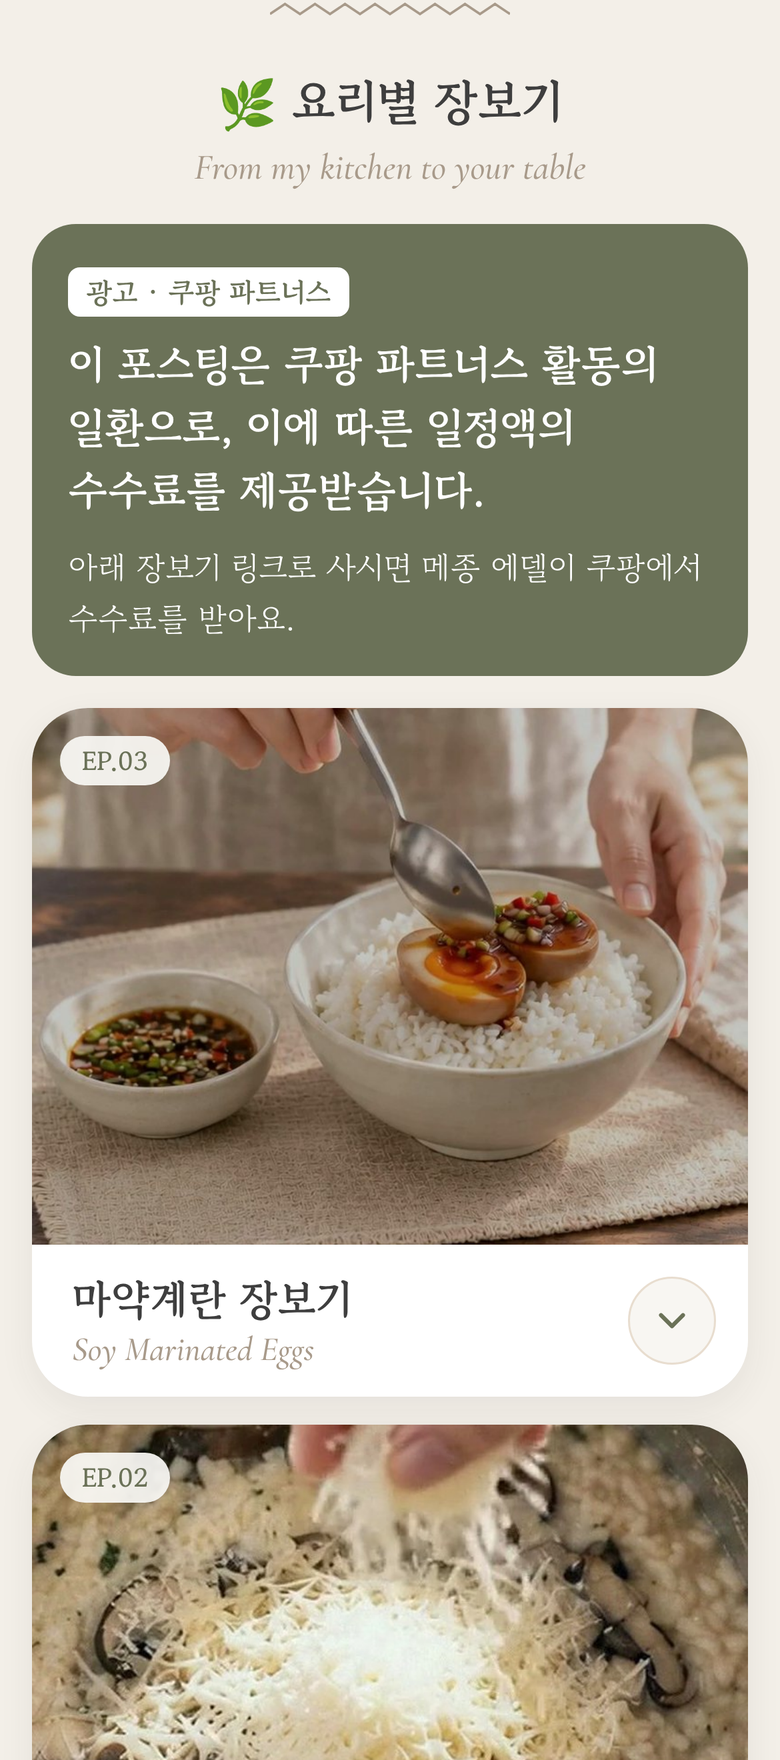
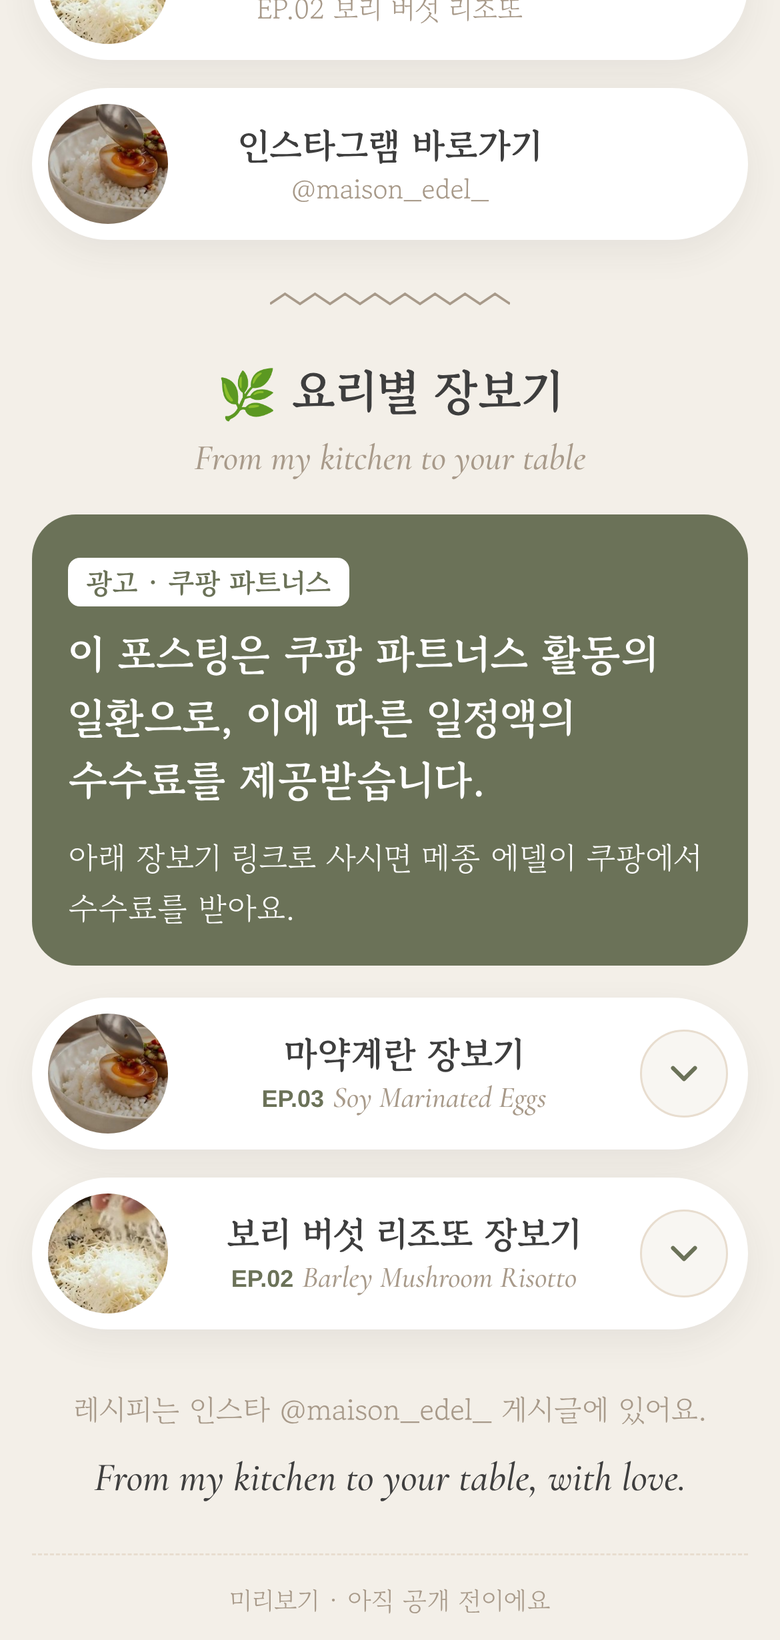
장보기 페이지 4판: 요리 블록을 알약 버튼으로, 일정 칸 빼기, 공개 파일에서 내부 주소 빼기
Claude-Session: https://claude.ai/code/session_01Ethqw5r7mmktrKzGmpSNVy

diff --git a/company/초안/메종에델-장보기/index.html b/company/초안/메종에델-장보기/index.html
@@ -10,7 +10,7 @@
 <link rel="preconnect" href="https://fonts.gstatic.com" crossorigin>
 <link href="https://fonts.googleapis.com/css2?family=Gowun+Batang:wght@400;700&family=Cormorant+Garamond:ital,wght@1,500;1,600&display=swap" rel="stylesheet">
 <style>
-  /* 메종에델 확정 색 (노션 작업실 3번 비주얼 규칙) + 부드러운 바탕 두 단계 */
+  /* 메종에델 확정 색 + 부드러운 바탕 두 단계 */
   :root {
     --ivory: #F8F6F2;
     --beige: #E8DDCF;
@@ -74,23 +74,6 @@
   .pill .tx { flex: 1; text-align: center; font-size: 18px; font-weight: 700; padding-right: 60px; line-height: 1.35; }
   .pill .tx small { display: block; font-size: 14px; font-weight: 400; color: var(--taupe); }
 
-  /* 3. 일정 칸: 꼬리표 + 날짜·제목이 세로줄로 이어짐 */
-  .sched { padding: 20px 18px 18px; }
-  .sched h2 { font-size: 17px; margin: 0 0 12px; color: var(--olive); }
-  .row { display: grid; grid-template-columns: 82px 1fr; column-gap: 14px; }
-  .row .tag { align-self: start; margin-top: 4px; justify-self: start;
-              font-family: Arial, sans-serif; font-size: 14px; font-weight: 700; color: var(--olive);
-              background: var(--olive-soft); padding: 4px 16px 4px 12px;
-              clip-path: polygon(0 0, 84% 0, 100% 50%, 84% 100%, 0 100%); border-radius: 6px 0 0 6px; }
-  .row .tag.now { background: var(--olive); color: var(--white); }
-  .row .line { position: relative; padding: 0 0 16px 18px; border-left: 1.5px solid var(--beige); }
-  .row:last-child .line { padding-bottom: 2px; }
-  .row .line::before { content: ""; position: absolute; left: -5px; top: 11px; width: 8px; height: 8px; border-radius: 50%; background: var(--taupe); }
-  .row .tag.now + .line::before { background: var(--olive); }
-  .row .when { font-size: 15px; color: var(--taupe); margin: 0; }
-  .row .what { font-size: 18px; font-weight: 700; margin: 0; line-height: 1.4; }
-  .row.empty .what { font-weight: 400; color: var(--taupe); font-size: 16px; }
-
   .wave { display: block; margin: 26px auto 18px; width: 120px; height: 12px; color: var(--taupe); }
 
   /* 4. 요리별 장보기 */
@@ -104,18 +87,19 @@
   .notice .easy { margin: 10px 0 0; font-size: 16px; }
 
   /* 사진이 큰 카드: 사진 위, 글 아래 */
-  /* 펼치기 카드: 처음엔 사진 + 제목만, 누르면 재료 버튼이 아래로 펼쳐짐 */
-  .dish { overflow: hidden; }
-  .dish summary { list-style: none; cursor: pointer; display: block; -webkit-tap-highlight-color: transparent; }
+  /* 요리 블록: 위 버튼과 같은 알약 모양 (왼쪽 동그란 작은 사진 + 가운데 요리 이름 + 오른쪽 ⌄), 누르면 아래로 재료 버튼이 펼쳐짐 */
+  .dish { overflow: hidden; border-radius: 38px; }
+  .dish[open] { border-radius: 28px; }
+  .dish summary { list-style: none; cursor: pointer; display: flex; align-items: center; gap: 10px;
+                  min-height: 76px; padding: 8px 10px 8px 8px; -webkit-tap-highlight-color: transparent; }
   .dish summary::-webkit-details-marker { display: none; }
-  .dish .photo { position: relative; aspect-ratio: 4 / 3; background: var(--beige); }
-  .dish .photo img { width: 100%; height: 100%; object-fit: cover; display: block; }
-  .dish .ep { position: absolute; top: 14px; left: 14px; background: rgba(248,246,242,.94); color: var(--olive);
-              font-size: 13px; font-weight: 700; border-radius: 999px; padding: 2px 11px; }
-  .dish .title { display: flex; align-items: center; gap: 12px; min-height: 76px; padding: 12px 16px 12px 20px; }
-  .dish .tt { flex: 1; }
-  .dish .tt b { display: block; font-size: 21px; line-height: 1.35; }
-  .dish .sub { display: block; color: var(--taupe); font-size: 17px; line-height: 1.3; }
+  .dish .thumb { flex: none; width: 60px; height: 60px; border-radius: 50%; overflow: hidden; background: var(--ivory); }
+  .dish .thumb img { width: 100%; height: 100%; object-fit: cover; display: block; }
+  .dish .tt { flex: 1; text-align: center; line-height: 1.3; }
+  .dish .tt b { display: block; font-size: 18px; }
+  .dish .sub { display: block; font-size: 14px; color: var(--taupe); }
+  .dish .sub .ep { font-family: Arial, sans-serif; font-size: 12px; font-weight: 700; color: var(--olive); }
+  .dish .sub .en { font-size: 15px; }
   .dish .chev { flex: none; width: 44px; height: 44px; border-radius: 50%; background: var(--ivory); border: 1px solid var(--beige);
                 display: flex; align-items: center; justify-content: center; color: var(--olive); transition: transform .25s ease; }
   .dish .chev svg { width: 22px; height: 22px; }
@@ -174,24 +158,11 @@
       <span class="thumb"><img src="사진/작은-마약계란.jpg" alt=""></span>
       <span class="tx">인스타그램 바로가기<small>@maison_edel_</small></span>
     </a>
-
-    <!-- 3. 공구·새 편 일정 -->
-    <section class="card sched" aria-label="공구와 새 편 일정">
-      <h2>공구 · 새 편 일정</h2>
-      <div class="row" data-date="2026-11-04T21:00:00+09:00">
-        <span class="tag">D-2</span>
-        <div class="line"><p class="when">11.4(수) 밤 9시</p><p class="what">새 편 · 마약계란</p></div>
-      </div>
-      <div class="row empty">
-        <span class="tag">곧</span>
-        <div class="line"><p class="when">공동구매</p><p class="what">준비하고 있어요</p></div>
-      </div>
-    </section>
   </div>
 
   <svg class="wave" viewBox="0 0 120 12" aria-hidden="true"><path d="M0 6 L7.5 1 L15 6 L22.5 1 L30 6 L37.5 1 L45 6 L52.5 1 L60 6 L67.5 1 L75 6 L82.5 1 L90 6 L97.5 1 L105 6 L112.5 1 L120 6" fill="none" stroke="currentColor" stroke-width="1.2"/></svg>
 
-  <!-- 4. 요리별 장보기 (쿠팡 파트너스 링크가 있는 칸) -->
+  <!-- 3. 요리별 장보기 (쿠팡 파트너스 링크가 있는 칸) -->
   <section aria-labelledby="shop-title">
     <div class="shop-head">
       <h2 id="shop-title">🌿 요리별 장보기</h2>
@@ -205,14 +176,12 @@
     </div>
 
     <div class="stack">
-      <!-- 블록 1: 마약계란 · 재료 근거: v3/마약계란-캡션.md, 노션 레시피함 마약달걀 · 사진: EP.03 인스타용 영상 15.6초 -->
+      <!-- 블록 1: 마약계란 (EP.03) -->
       <details class="card dish">
         <summary>
-          <div class="photo"><img src="사진/ep03-마약계란.jpg" alt="흰쌀밥 위 마약계란에 양념을 끼얹는 손" loading="lazy"><span class="ep">EP.03</span></div>
-          <div class="title">
-            <span class="tt"><b>마약계란 장보기</b><span class="sub en">Soy Marinated Eggs</span></span>
-            <span class="chev" aria-hidden="true"><svg viewBox="0 0 24 24" fill="none" stroke="currentColor" stroke-width="2.2" stroke-linecap="round" stroke-linejoin="round"><path d="M6 9l6 6 6-6"/></svg></span>
-          </div>
+          <span class="thumb"><img src="사진/작은-마약계란.jpg" alt="마약계란"></span>
+          <span class="tt"><b>마약계란 장보기</b><span class="sub"><span class="ep">EP.03</span> <span class="en">Soy Marinated Eggs</span></span></span>
+          <span class="chev" aria-hidden="true"><svg viewBox="0 0 24 24" fill="none" stroke="currentColor" stroke-width="2.2" stroke-linecap="round" stroke-linejoin="round"><path d="M6 9l6 6 6-6"/></svg></span>
         </summary>
         <div class="body">
           <p class="fee">쿠팡 파트너스 링크 · 수수료를 받아요</p>
@@ -221,14 +190,12 @@
         </div>
       </details>
 
-      <!-- 블록 2: 보리 버섯 리조또 · 재료 근거: 노션 EP.02 장면 목록 2번 + EP.02 화면 자막 · 사진: EP.02 썸네일(EP02-리조또.jpg) 가운데 -->
+      <!-- 블록 2: 보리 버섯 리조또 (EP.02) -->
       <details class="card dish">
         <summary>
-          <div class="photo"><img src="사진/ep02-보리버섯리조또.jpg" alt="보리 버섯 리조또 위에 파마산 치즈를 갈아 뿌리는 손" loading="lazy"><span class="ep">EP.02</span></div>
-          <div class="title">
-            <span class="tt"><b>보리 버섯 리조또 장보기</b><span class="sub en">Barley Mushroom Risotto</span></span>
-            <span class="chev" aria-hidden="true"><svg viewBox="0 0 24 24" fill="none" stroke="currentColor" stroke-width="2.2" stroke-linecap="round" stroke-linejoin="round"><path d="M6 9l6 6 6-6"/></svg></span>
-          </div>
+          <span class="thumb"><img src="사진/작은-리조또.jpg" alt="보리 버섯 리조또"></span>
+          <span class="tt"><b>보리 버섯 리조또 장보기</b><span class="sub"><span class="ep">EP.02</span> <span class="en">Barley Mushroom Risotto</span></span></span>
+          <span class="chev" aria-hidden="true"><svg viewBox="0 0 24 24" fill="none" stroke="currentColor" stroke-width="2.2" stroke-linecap="round" stroke-linejoin="round"><path d="M6 9l6 6 6-6"/></svg></span>
         </summary>
         <div class="body">
           <p class="fee">쿠팡 파트너스 링크 · 수수료를 받아요</p>
@@ -244,11 +211,11 @@
     <p class="en">From my kitchen to your table, with love.</p>
   </footer>
 
-  <p class="preview">미리보기 · 아직 공개 전이에요 (재료는 노션 "🛒 장보기 재료" 표에서 쿠팡 링크를 넣은 것만 보여요)</p>
+  <p class="preview">미리보기 · 아직 공개 전이에요</p>
 </main>
 <script src="장보기-재료.js"></script>
 <script>
-  // 재료 버튼은 장보기-재료.js(노션 "🛒 장보기 재료" 표를 옮긴 파일) 한 곳에서 읽는다.
+  // 재료 버튼은 장보기-재료.js 한 곳에서 읽는다.
   // 쿠팡 링크가 비었거나 보이기가 꺼진 재료는 보이지 않는다.
   // 주소 끝에 ?preview 를 붙이면(회사 확인용) 링크가 빈 재료도 "링크 자리"로 보여 준다.
   (function () {
@@ -277,15 +244,6 @@
       });
     });
   })();
-  // 일정 꼬리표: 날짜가 있으면 오늘 기준 D-숫자로 바꾼다 (당일 = OPEN, 지나면 공개됨)
-  document.querySelectorAll('.row[data-date]').forEach(function (r) {
-    var t = new Date(r.getAttribute('data-date')); if (isNaN(t)) return;
-    var day = function (d) { return Math.floor((d.getTime() + 9 * 3600e3) / 86400e3); }; // 한국 날짜 기준
-    var n = day(t) - day(new Date()); var tag = r.querySelector('.tag');
-    if (n > 0) tag.textContent = 'D-' + n;
-    else if (n === 0) { tag.textContent = 'OPEN'; tag.classList.add('now'); }
-    else { tag.textContent = '공개됨'; }
-  });
 </script>
 </body>
 </html>

diff --git a/company/초안/메종에델-장보기/근거-링크목록.md b/company/초안/메종에델-장보기/근거-링크목록.md
@@ -2,7 +2,9 @@
 
 - 미리보기: `index.html` (같은 폴더, 재료는 `장보기-재료.js`에서 읽음. 화면3은 `?preview`로 링크 자리를 보이게 찍음) · 휴대폰 화면 캡처: `미리보기캡처/화면1-처음.png`, `화면2-장보기-접힘.png`, `화면3-마약계란-펼침.png`, `전체-접힘.png`
 - 참고한 배치: 회장님 캡처 `참고-회장님캡처-인포크링크.png` (배치만 참고, 그 계정 이름·사진·로고는 안 씀)
-- 쓴 돈 0원. 사진은 이미 있는 영상·썸네일에서 장면을 잘라 씀 (마약계란 = EP.03 인스타용 영상 15.6초, 리조또 = EP.02 썸네일 `../메종에델-기준장면/EP02-리조또.jpg` 가운데)
+- 쓴 돈 0원. 동그란 작은 사진은 이미 있는 영상에서 장면을 잘라 씀 (마약계란 = EP.03 인스타용 영상 15.6초, 리조또 = EP.02 영상 파마산 장면)
+- 재료 근거·사진 출처는 이 문서에만 적음 (index.html·장보기-재료.js는 공개 페이지와 같이 나가므로 내부 주소·노션 이름을 쓰지 않음)
+- **4판 (회장님 수정 11/2)**: 요리 블록을 큰 사진 카드 대신 위 버튼과 같은 알약 모양으로 (왼쪽 동그란 작은 사진 + 가운데 요리 이름 + 오른쪽 ⌄, 누르면 재료 버튼이 펼쳐짐). 큰 사진 파일은 지움. "공구·새 편 일정" 칸은 통째로 뺌 — **일정 칸은 공구 시작 때 다시** 넣음 (전 판 코드는 커밋 a5941a4에 있음)
 - 공개(배포)·인스타 프로필 링크는 결재 전에는 하지 않음
 
 ## 2판에서 바뀐 것 (품질관리팀 반려 · 암웨이사업팀 같은 판단, 11/2)
@@ -68,7 +70,7 @@
 | 큰 사진 블록 | 됨 | 됨 (회장님 캡처에서 확인) | 됨 ("50가지 이상 블럭") | 됨 |
 | 색·글꼴 바꾸기 | 메종에델 색·고운바탕·Cormorant 그대로 | 확인 못 함 | 확인 못 함 | 무료는 기본 테마·글꼴 몇 개, 직접 글꼴은 유료 |
 | 로고·광고 붙나 | 안 붙음 | 확인 못 함 (요금 화면 안 열림) | 무료는 리틀리 로고, 제거는 프로 월 2,450원(할인가) | 무료는 링크트리 로고, 제거는 유료 |
-| 공구 일정 칸 | 됨 (미리보기에 있음) | 있음 ("Schedule" 기능) | 확인 못 함 | 없음(확인한 범위) |
+| 공구 일정 칸 | 됨 (지금은 뺌, 공구 시작 때 다시) | 있음 ("Schedule" 기능) | 확인 못 함 | 없음(확인한 범위) |
 | 돈 | 0원 | 무료로 시작 (유료 차이 확인 못 함) | 0원 (로고 빼면 유료) | 0원 (로고 빼면 유료) |
 | 회장님 가입 | 없음 | 필요 | 필요 (본계정 리틀리와 따로) | 필요 |
 | 회사가 계속 고치기 | 됨 | 회장님 로그인 화면에서만 | 같음 | 같음 |

diff --git a/company/업무일지.md b/company/업무일지.md
@@ -65,3 +65,4 @@
 | 2026-11-02 | 쿠팡 파트너스 가입 완료(회장님). 메종에델 모음 페이지(리틀리형, 요리별 장보기 3블록) 미리보기·휴대폰 캡처·재료 근거·링크 23개 목록 완성, 쓴 돈 0원 | 커머스팀 | 품질관리팀 검수 → 회장님 시험 링크 1개 → 공개 결재 |
 | 2026-11-02 | 메종에델 모음 페이지 2판: 책 버튼·EP.01 블록 뺌(암웨이 규정, 회장님 결정), 크롬 Claude 계획 지우고 링크 7개 회장님 직접, 요리 블록 펼치기 방식, 리조또 사진 선명하게, 캡처 다시 | 커머스팀 | 품질관리팀 재검수 |
 | 2026-11-02 | 노션 작업실 아래 "🛒 장보기 재료" 표 만들고 7개 넣음(https://app.notion.com/p/4feffa0f44b94d38828a1a2267d3ced4). 장보기 페이지가 재료를 `장보기-재료.js` 한 곳에서 읽고, 쿠팡 링크 빈 재료는 숨김 (3판) | 커머스팀 | 2판 검수 결과 뒤 3판 검수 |
+| 2026-11-02 | 장보기 페이지 4판: 요리 블록을 알약 버튼(작은 사진+이름+⌄, 펼치기)으로, 일정 칸 뺌(공구 시작 때 다시), 공개 파일에서 노션 주소·내부 메모 뺌, 반영 점검표 추가 | 커머스팀 | 4판 검수 |
